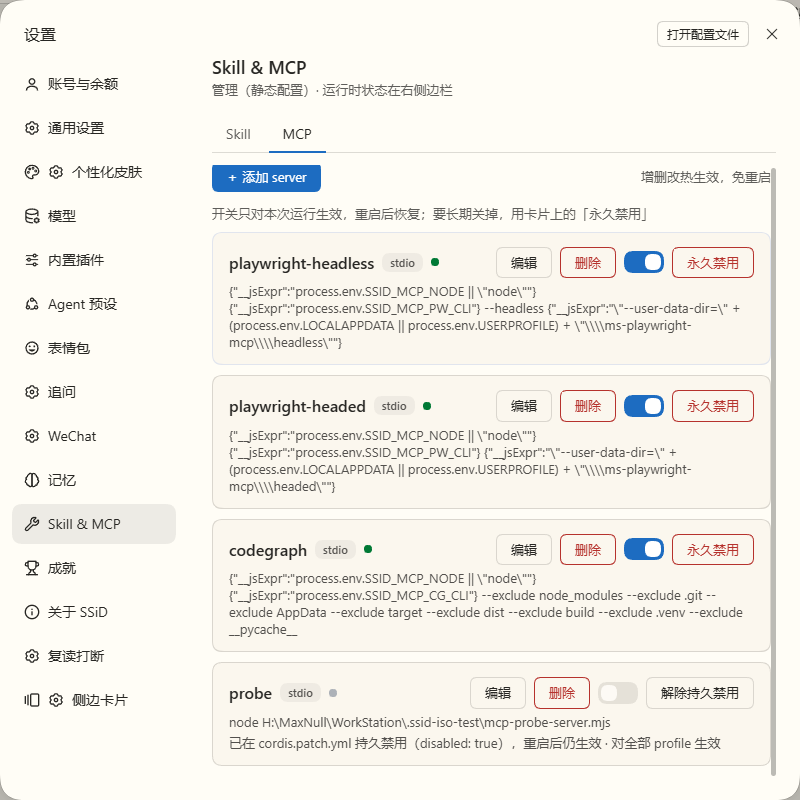
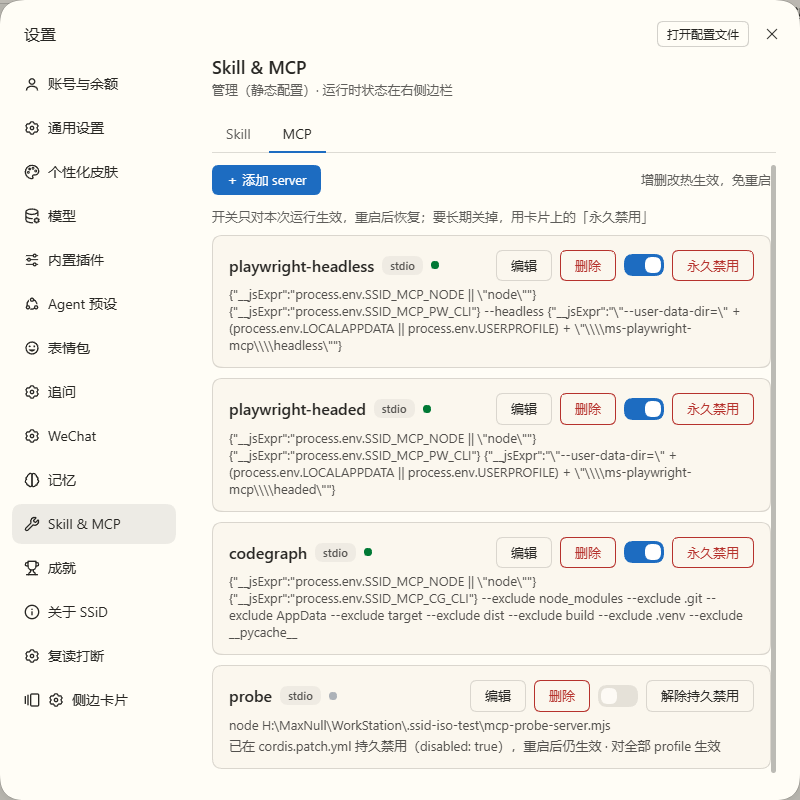
release: 0.8.1（修正手写 disabled 的归属判定）
修补 0.8.0 的一个 UX 缺陷：按 issue #6 的 workaround 手写在 insert 子条目里的
disabled: true，0.8.0 会显示「解除持久禁用」按钮，点了提示「配置文件已是目标
状态」，条目仍然禁用——读取时把任何来源的字面 true 都算成面板可解除的，而解除
只删顶格覆盖块。

代码修复已在 457f4ff；本提交是发版（版本号、CHANGELOG、README 补一句手写条目的
边界、截图换成 0.8.1 构建的实际界面）。

真机复验（隔离 dev，内核升级后）：手写 insert 的 probe → pinnedInPatch=true /
permanentDisabled=false，卡片显示「已由 cordis.patch.yml 手动禁用……要重新启用请
直接改那个文件」，开关与「永久禁用」按钮都置灰、无「解除持久禁用」；去掉手写后
走面板按钮 → permanentDisabled=true，卡片回到可解除状态。L1：81 测试、build 幂等。

diff --git a/CHANGELOG.md b/CHANGELOG.md
@@ -4,6 +4,8 @@
 
 ## [Unreleased]
 
+## [0.8.1] - 2026-11-20
+
 ### Fixed
 
 **手写在 `insert` 子条目里的 `disabled: true` 不再被当成面板可解除的持久禁用**。0.8.0 读取时把任何可写层里的字面 `disabled: true` 都算作 `permanentDisabled`，而解除只删顶格覆盖块——于是按 issue #6 的 workaround 手写过的条目会显示「解除持久禁用」，点了却提示「配置文件已是目标状态」，条目仍然是禁用的。
